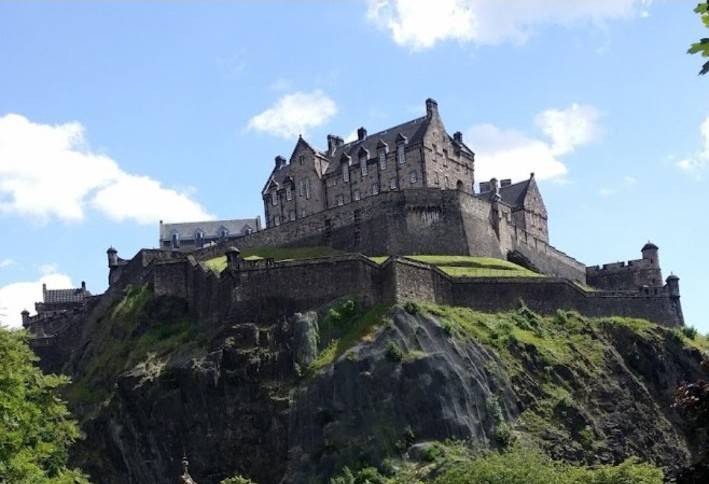
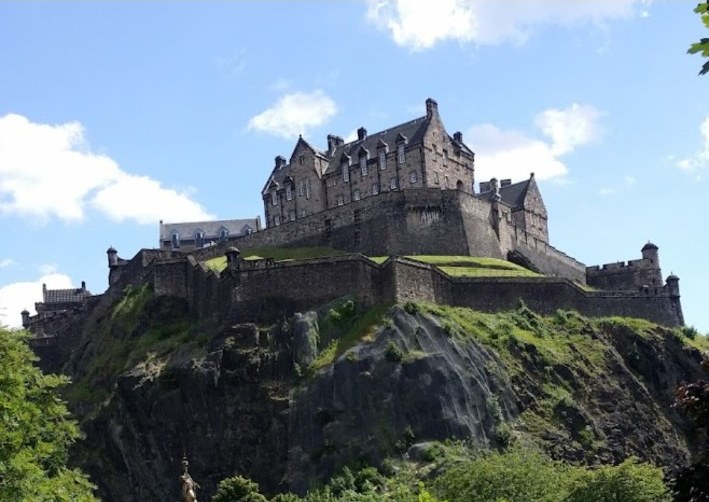
Refine New Town castle photo flow
* Use a slightly wider New Town castle crop

* Restore New Town opening flow around castle photo

diff --git a/places/new-town.html b/places/new-town.html
@@ -1,6 +1,6 @@
 <!doctype html><html lang="ko"><head><meta charset="utf-8">
 <meta name="viewport" content="width=device-width,initial-scale=1"><title>에든버러 뉴타운 | 에든버러 워킹투어</title><meta name="description" content="계획도시로 만들어진 조지안 에든버러 뉴타운의 면모를 살펴봅니다. 올드타운과 다른 거리 구조와 건축을 비교해 보기 좋습니다."><meta name="robots" content="index,follow,max-image-preview:large"><link rel="canonical" href="https://edinburgh-walking-tour.scotlandkorea.workers.dev/places/new-town.html"><meta property="og:type" content="article"><meta property="og:title" content="에든버러 뉴타운"><meta property="og:description" content="계획도시로 만들어진 조지안 에든버러 뉴타운의 면모를 살펴봅니다. 올드타운과 다른 거리 구조와 건축을 비교해 보기 좋습니다."><meta property="og:image" content="https://edinburgh-walking-tour.scotlandkorea.workers.dev/assets/edinburgh-panorama.jpg"><meta property="og:url" content="https://edinburgh-walking-tour.scotlandkorea.workers.dev/places/new-town.html"><link rel="stylesheet" href="/assets/site.css"></head><body class="course-detail simple-place-detail"><header class="site-header"><div class="wrap topbar"><a class="brand" href="/"><span class="mark">EW</span><span>에든버러 워킹투어</span></a><nav class="nav"><a href="/edinburgh/tour-guide.html">투어 안내</a><a href="/#tour">투어 코스</a><a href="/#explore">장소 · 테마 · 인물</a><a href="/#walked">함께한 분들</a><a href="/#guide">안내자 소개</a><a href="/#travel">여행 정보</a><a href="/#contact">문의</a></nav><details class="mobile-menu"><summary aria-label="메뉴 열기">≡</summary><nav><a href="/edinburgh/tour-guide.html">투어 안내</a><a href="/#tour">투어 코스</a><a href="/#explore">장소 · 테마 · 인물</a><a href="/#walked">함께한 분들</a><a href="/#guide">안내자 소개</a><a href="/#travel">여행 정보</a><a href="/#contact">문의</a></nav></details></div></header><section class="detail-intro"><div class="wrap"><div class="breadcrumbs"><a href="/">홈</a> › <a href="/#tour">에든버러 워킹투어 코스</a> › 에든버러 뉴타운</div><h1 class="course-title">에든버러 뉴타운</h1><p class="course-title-en" lang="en">Edinburgh New Town</p><p class="lead">반듯하게 설계된 거리, 그 안에 담긴 이야기</p></div></section><main><article class="wrap detail-article"><div class="course-overview"><strong>한눈에 보기</strong><p>18세기 혼잡한 올드타운 밖에 새롭게 계획된 뉴타운은 넓고 반듯한 거리와 조지안 건축으로 에든버러의 또 다른 얼굴을 보여줍니다. 프린스 스트리트와 조지 스트리트의 도시계획을 살펴보며 올드타운과 전혀 다른 공간이 왜 만들어졌는지 이해할 수 있습니다.</p></div>
-<p>로스 분수를 뒤로하고 프린스 스트리트 쪽으로 올라서면 분위기가 다시 한번 달라집니다.</p><p>정원 쪽으로 시선을 돌리면 캐슬 록의 검은 절벽 위에 에든버러 성이 솟아 있습니다. 프린세스 스트리트 가든에서 올려다보는 이 풍경은 반듯하게 계획된 뉴타운과 바위 위에 자리한 올드타운이 얼마나 가까이 마주 보고 있는지를 한눈에 보여줍니다.</p><figure class="story-photo"><img src="/assets/new-town/edinburgh-castle-from-princes-street-gardens.jpg" alt="프린세스 스트리트 가든에서 바라본 캐슬 록 위 에든버러 성"></figure>
+<p>캐슬 록의 절벽 위에 우뚝 선 에든버러 성을 뒤로하고, 이제 프린세스 스트리트로 올라서면 도시의 분위기가 다시 한번 달라집니다.</p><figure class="story-photo"><img src="/assets/new-town/edinburgh-castle-from-princes-street-gardens.jpg" alt="프린세스 스트리트 가든에서 바라본 캐슬 록 위 에든버러 성"></figure>
 <p>넓고 반듯한 거리, 일정한 높이로 줄지어 선 조지안 양식의 건물들. 골목이 구불구불하고 건물이 불규칙하게 솟은 올드타운과는 전혀 다른 풍경입니다. 그리고 그 거리 위로 에든버러 트램이 조용히 오갑니다. 공항에서 출발해 프린스 스트리트를 지나 리스와 뉴헤이븐까지 이어지는 노선입니다. 에든버러에 처음 내려 트램을 타고 도심으로 들어온 여행자라면 이 거리가 낯설지 않을 겁니다.</p>
 <p>이 반듯한 거리는 어떻게 만들어진 걸까요?</p>
 <h2>올드타운이 너무 좁고 더러워졌습니다</h2>
